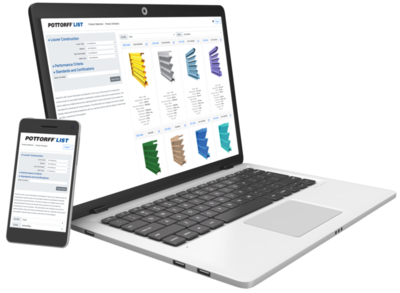
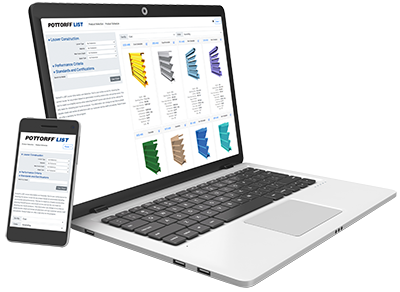
uploaded higher res images and made the title font size large

diff --git a/resources/sass/app.scss b/resources/sass/app.scss
@@ -22,6 +22,15 @@
     @extend .text-primary;
 }
 
+.custom-section-title {
+    font-size: 24px;
+    line-height: 24px;
+    text-transform: uppercase;
+
+    @extend .font-weight-bolder;
+    @extend .text-primary;
+}
+
 .navbar-nav > li.active > a, .navbar-nav > li.active > a {
     &:hover, &:focus {
         background: $primary;

diff --git a/resources/views/livewire/literature.blade.php b/resources/views/livewire/literature.blade.php
@@ -1,15 +1,17 @@
 <div class="article literature-section">
-    <h3 class="heading">
+    <div class="custom-section-title mb-3">
         <img src="{{url('images/icons/Literature Icon.png')}}" alt="Literature" class="heading-image" />
         LITERATURE
-    </h3>
+    </div>
 
     <div class="d-flex literature-images flex-wrap h-100 items-center" style="gap: 10px;">
         <img src="/images/News and Literature Section/Louver Brochure.jpg" alt="Louver Brochure" />
         <img src="/images/News and Literature Section/Pottorff UL Brochure.jpg" alt="Pottorff UL Brochure.jpg" />
     </div>
+
     <div class="text-muted">
         We have many sales tools to help you including brochures,
         case studies and product sales sheets - <a href="#">More Literature</a>
     </div>
+
 </div>

diff --git a/resources/views/welcome.blade.php b/resources/views/welcome.blade.php
@@ -105,10 +105,10 @@
                                 <img src="/images/icons/Revit Logo.png" alt="News" />
                             </li>
                             <li>
-                                <img src="/images/icons/News.jpg" alt="News" />
+                                <img src="/images/icons/News.png" alt="News" />
                             </li>
                             <li>
-                                <img src="/images/icons/Case Studies.jpg" alt="Case" />
+                                <img src="/images/icons/Case Studies.png" alt="Case" />
                             </li>
                             <li>
                                 <img src="/images/icons/CSI.png" alt="CSI" />

diff --git a/resources/views/layouts/main-footer.blade.php b/resources/views/layouts/main-footer.blade.php
@@ -7,7 +7,9 @@
     </style>
     <div class="footer">
         <div class="container animated fadeInUpNow notransition">
-            <h1 class="footerbrand">POTTORFF</h1>
+            <h1 class="footerbrand">
+                <img style="height: 30px;" src="{{url('/images/Pottorff Logo White.png')}}" alt="POTTORFF" />
+            </h1>
             <div class="row">
                 <div class="col-md-3">
                     <p class="mt-2 mb-2">The Preferred Solution for Life Safety and Air Control Products</p>

diff --git a/resources/views/livewire/home-news-list.blade.php b/resources/views/livewire/home-news-list.blade.php
@@ -1,8 +1,8 @@
 <div class="article">
-    <h3 class="heading section-heading-text">
-        <img src="{{url('images/icons/News.jpg')}}" alt="News" class="heading-image" />
+    <div class="custom-section-title mb-3">
+        <img src="{{url('images/icons/News.png')}}" alt="News" class="heading-image" />
         POTTORFF NEWS
-    </h3>
+    </div>
     @forelse($articles as $article)
         <div class="d-flex mb-3">
             <img src="{{$article->imageUrl}}" class="article-image" alt="image" height="75" />

diff --git a/resources/views/livewire/home-bottom-slide.blade.php b/resources/views/livewire/home-bottom-slide.blade.php
@@ -1,6 +1,6 @@
 @if(count($sliders) > 0)
 <div class="text-center heading w-100 mb-3">
-    <img src="/images/icons/Case Studies.jpg" alt="cases" class="header-icon">
+    <img src="/images/icons/Case Studies.png" alt="cases" class="header-icon">
     PROJECTS AND CASE STUDIES
 </div>
 <div class="col-lg-12">
